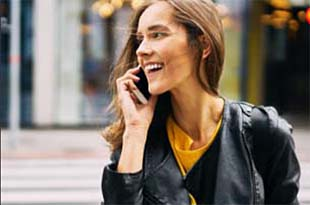
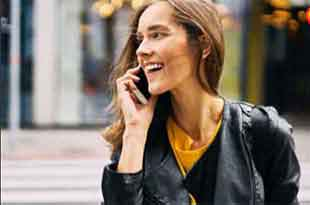
new commit

diff --git a/index.hyperesources/index_hype_generated_script.js b/index.hyperesources/index_hype_generated_script.js
@@ -4,4 +4,4 @@
 !1)try{for(var c=document.getElementsByTagName("script"),a=0;a<c.length;a++){var d=c[a].src,b=null!=d?d.indexOf("/index_hype_generated_script.js"):-1;if(-1!=b){l=d.substr(0,b);break}}}catch(p){}c=navigator.userAgent.match(/MSIE (\d+\.\d+)/);c=parseFloat(c&&c[1])||null;d=!0==(null!=window.HYPE_728F||null!=window.HYPE_dtl_728F)||false==!0||null!=c&&10>c;a=!0==d?"HYPE-728.full.min.js":"HYPE-728.thin.min.js";c=!0==d?"F":"T";d=d?"":
 "";if(false==!1&&(a=k("HYPE_728"+c,"HYPE_dtl_728"+c,a,d),false==!0&&(a=a||k("HYPE_w_728","HYPE_wdtl_728","HYPE-728.waypoints.min.js","")),false==!0&&(a=a||k("Matter","HYPE_pdtl_728","HYPE-728.physics.min.js","")),a))return;d=window.HYPE.documents;if(null!=d[f]){b=1;a=f;do f=""+a+"-"+b++;while(null!=d[f]);for(var e=document.getElementsByTagName("div"),
 b=!1,a=0;a<e.length;a++)if(e[a].id==g&&null==e[a].getAttribute("HYP_dn")){var b=1,h=g;do g=""+h+"-"+b++;while(null!=document.getElementById(g));e[a].id=g;b=!0;break}if(!1==b)return}b=[];b=[];e={};h={};for(a=0;a<b.length;a++)try{h[b[a].identifier]=b[a].name,e[b[a].name]=eval("(function(){return "+b[a].source+"})();")}catch(n){window.console&&window.console.log(n),e[b[a].name]=function(){}}c=new window["HYPE_728"+c](f,g,{"3":{p:1,n:"Pasted.png",g:"82",t:"@1x"},"-2":{n:"blank.gif"},"4":{p:1,n:"Pasted-1.png",g:"84",t:"@1x"},"0":{p:1,n:"mynstur.svg",g:"7",t:"image/svg+xml"},"5":{p:1,n:"Pasted-2.png",g:"86",t:"@1x"},"1":{p:1,n:"PwC_merki.svg",g:"9",t:"image/svg+xml"},"6":{p:1,n:"wife.jpg",g:"92",t:"@1x"},"2":{p:1,n:"Group%201505.svg",g:"11",t:"image/svg+xml"},"-1":{n:"PIE.htc"}},l,[],e,[{n:"310x400_kona Copy",o:"71",X:[0]}],
-[{o:"81",p:"600px",cA:false,Y:310,Z:400,L:[],c:"#FFF",bY:1,d:310,U:{},T:{kTimelineDefaultIdentifier:{q:false,z:1.04,i:"kTimelineDefaultIdentifier",n:"Main Timeline",a:[{f:"e",y:0,z:0.06,i:"a",e:-12,s:-326,o:"129"},{f:"c",y:0,z:0.06,i:"a",e:-2,s:-311,o:"130"},{f:"c",y:0.03,z:0.06,i:"a",e:47,s:-262,o:"128"},{y:0.06,i:"a",s:-12,z:0,o:"129",f:"c"},{y:0.06,i:"a",s:-2,z:0,o:"130",f:"c"},{f:"c",y:0.07,z:0.06,i:"a",e:90,s:-223,o:"126"},{f:"e",y:0.08,z:0.06,i:"b",e:166,s:402,o:"125"},{y:0.09,i:"a",s:47,z:0,o:"128",f:"c"},{y:0.13,i:"a",s:90,z:0,o:"126",f:"c"},{y:0.14,i:"b",s:166,z:0,o:"125",f:"c"},{f:"c",y:0.2,z:0.08,i:"e",e:1,s:0,o:"123"},{f:"c",y:0.21,z:0.13,i:"e",e:1,s:0,o:"124"},{y:0.28,i:"e",s:1,z:0,o:"123",f:"c"},{y:1.04,i:"e",s:1,z:0,o:"124",f:"c"}],f:30,b:[]}},bZ:180,O:["129","122","127","130","128","125","126","123","124"],n:"Untitled Layout","_":0,v:{"122":{c:307,d:398,I:"Solid",e:0,J:"Solid",K:"Solid",g:"#E8EBED",L:"Solid",aP:"pointer",M:1,N:1,A:"#D8DDE4",x:"visible",j:"absolute",B:"#D8DDE4",P:1,O:1,C:"#D8DDE4",z:15,dB:"button",D:"#D8DDE4",aA:{a:[{p:5,j:"https://www.pwc.is/is/thjonusta/bokhald.html",k:false}]},k:"div",a:1,b:0},"125":{h:"7",p:"no-repeat",x:"visible",tY:0.5,q:"100% 100%",b:402,a:-42,r:"inline",j:"absolute",z:6,dB:"img",d:234,k:"div",c:138,tX:0.5},"128":{h:"84",p:"no-repeat",x:"visible",a:-262,dB:"img",q:"100% 100%",j:"absolute",r:"inline",z:13,k:"div",b:155,d:61,c:183},"124":{h:"9",p:"no-repeat",x:"visible",a:209,dB:"img",q:"100% 100%",j:"absolute",r:"inline",z:7,b:321,k:"div",d:67.816,c:89.349,e:0},"127":{c:308,d:400,I:"Solid",e:0.4,J:"Solid",K:"Solid",g:"#E8EBED",L:"Solid",M:1,N:1,A:"#D8DDE4",x:"visible",j:"absolute",B:"#D8DDE4",P:1,O:1,C:"#D8DDE4",z:2,k:"div",D:"#D8DDE4",a:0,b:0},"130":{h:"82",p:"no-repeat",x:"visible",a:-311,dB:"img",q:"100% 100%",j:"absolute",r:"inline",z:12,k:"div",b:105,d:61,c:150},"123":{h:"11",p:"no-repeat",x:"visible",a:114,dB:"img",q:"100% 100%",j:"absolute",r:"inline",z:8,b:279,k:"div",d:71,c:82.674,e:0},"126":{h:"86",p:"no-repeat",x:"visible",a:-223,dB:"img",q:"100% 100%",j:"absolute",r:"inline",z:14,k:"div",b:210,d:61,c:220},"129":{h:"92",p:"no-repeat",x:"visible",a:-326,dB:"img",q:"100% 100%",j:"absolute",r:"inline",z:3,k:"div",b:0,d:210,c:322}}}],{},h,{},null,false,true,-1,true,true,false,true,true);d[f]=c.API;document.getElementById(g).setAttribute("HYP_dn",f);c.z_o(this.body)})();})();
+[{o:"81",p:"600px",cA:false,Y:310,Z:400,L:[],c:"#FFF",bY:1,d:310,U:{},T:{kTimelineDefaultIdentifier:{q:false,z:3.11,i:"kTimelineDefaultIdentifier",n:"Main Timeline",a:[{f:"e",y:0,z:0.15,i:"a",e:-12,s:-326,o:"129"},{f:"c",y:0,z:0.24,i:"a",e:-2,s:-311,o:"130"},{f:"e",y:0.14,z:0.19,i:"b",e:166,s:402,o:"125"},{y:0.15,i:"a",s:-12,z:0,o:"129",f:"c"},{f:"c",y:0.21,z:0.24,i:"a",e:47,s:-262,o:"128"},{y:0.24,i:"a",s:-2,z:0,o:"130",f:"c"},{y:1.03,i:"b",s:166,z:0,o:"125",f:"c"},{f:"c",y:1.11,z:0.24,i:"a",e:90,s:-223,o:"126"},{y:1.15,i:"a",s:47,z:0,o:"128",f:"c"},{f:"c",y:2.02,z:0.24,i:"e",e:1,s:0,o:"123"},{y:2.05,i:"a",s:90,z:0,o:"126",f:"c"},{f:"c",y:2.18,z:0.23,i:"e",e:1,s:0,o:"124"},{y:2.26,i:"e",s:1,z:0,o:"123",f:"c"},{y:3.11,i:"e",s:1,z:0,o:"124",f:"c"}],f:30,b:[]}},bZ:180,O:["129","122","127","130","128","125","126","123","124"],n:"Untitled Layout","_":0,v:{"122":{c:307,d:398,I:"Solid",e:0,J:"Solid",K:"Solid",g:"#E8EBED",L:"Solid",aP:"pointer",M:1,N:1,A:"#D8DDE4",x:"visible",j:"absolute",B:"#D8DDE4",P:1,O:1,C:"#D8DDE4",z:15,dB:"button",D:"#D8DDE4",aA:{a:[{j:"https://www.pwc.is/is/thjonusta/bokhald.html",p:5,k:false}]},k:"div",a:1,b:0},"125":{h:"7",p:"no-repeat",x:"visible",tY:0.5,q:"100% 100%",b:402,a:-42,r:"inline",j:"absolute",z:6,dB:"img",d:234,k:"div",c:138,tX:0.5},"128":{h:"84",p:"no-repeat",x:"visible",a:-262,dB:"img",q:"100% 100%",j:"absolute",r:"inline",z:13,k:"div",b:155,d:61,c:183},"124":{h:"9",p:"no-repeat",x:"visible",a:209,dB:"img",q:"100% 100%",j:"absolute",r:"inline",z:7,b:321,k:"div",d:67.816,c:89.349,e:0},"127":{c:308,d:400,I:"Solid",e:0.4,J:"Solid",K:"Solid",g:"#E8EBED",L:"Solid",M:1,N:1,A:"#D8DDE4",x:"visible",j:"absolute",B:"#D8DDE4",P:1,O:1,C:"#D8DDE4",z:2,k:"div",D:"#D8DDE4",a:0,b:0},"130":{h:"82",p:"no-repeat",x:"visible",a:-311,dB:"img",q:"100% 100%",j:"absolute",r:"inline",z:12,k:"div",b:105,d:61,c:150},"123":{h:"11",p:"no-repeat",x:"visible",a:114,dB:"img",q:"100% 100%",j:"absolute",r:"inline",z:8,b:279,k:"div",d:71,c:82.674,e:0},"126":{h:"86",p:"no-repeat",x:"visible",a:-223,dB:"img",q:"100% 100%",j:"absolute",r:"inline",z:14,k:"div",b:210,d:61,c:220},"129":{h:"92",p:"no-repeat",x:"visible",a:-326,dB:"img",q:"100% 100%",j:"absolute",r:"inline",z:3,k:"div",b:0,d:210,c:322}}}],{},h,{},null,false,true,-1,true,true,false,true,true);d[f]=c.API;document.getElementById(g).setAttribute("HYP_dn",f);c.z_o(this.body)})();})();

diff --git a/index.html b/index.html
@@ -24,7 +24,7 @@
 	<!-- copy these lines to your document: -->
 
 	<div id="index_hype_container" class="HYPE_document" style="margin:auto;position:relative;width:310px;height:400px;overflow:hidden;">
-		<script type="text/javascript" charset="utf-8" src="index.hyperesources/index_hype_generated_script.js?55351"></script>
+		<script type="text/javascript" charset="utf-8" src="index.hyperesources/index_hype_generated_script.js?21439"></script>
 	</div>
 
 	<!-- end copy -->
